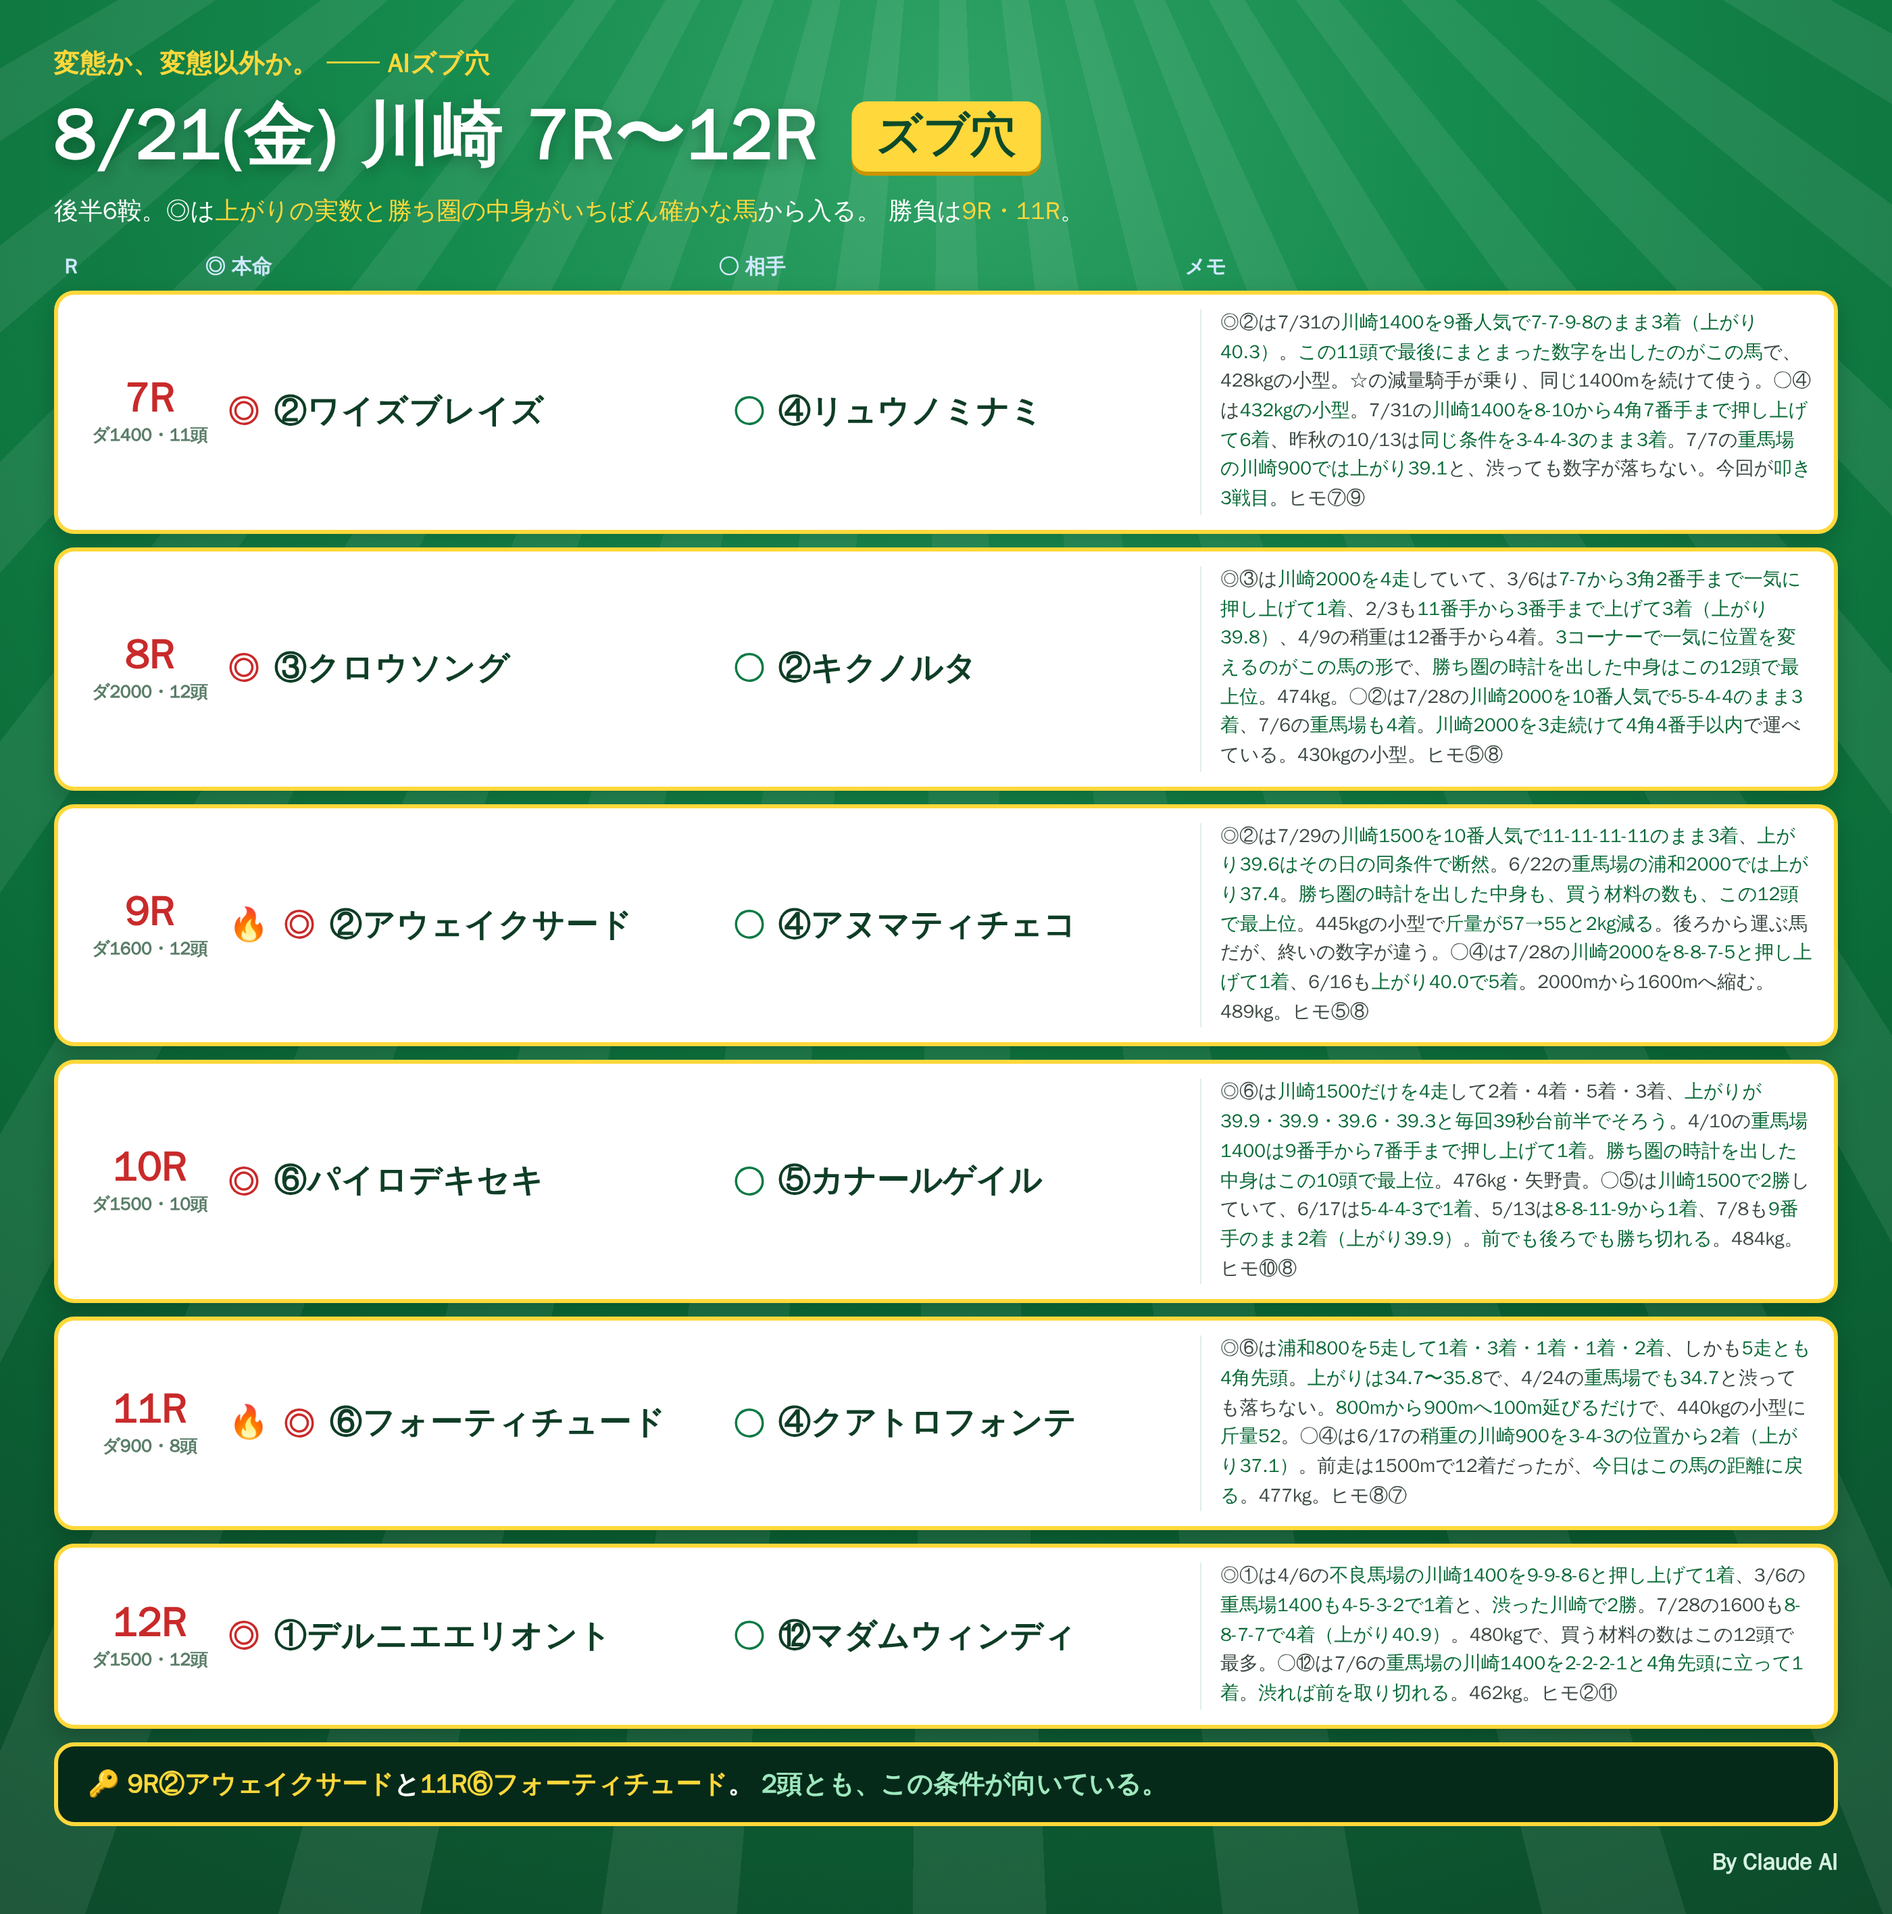
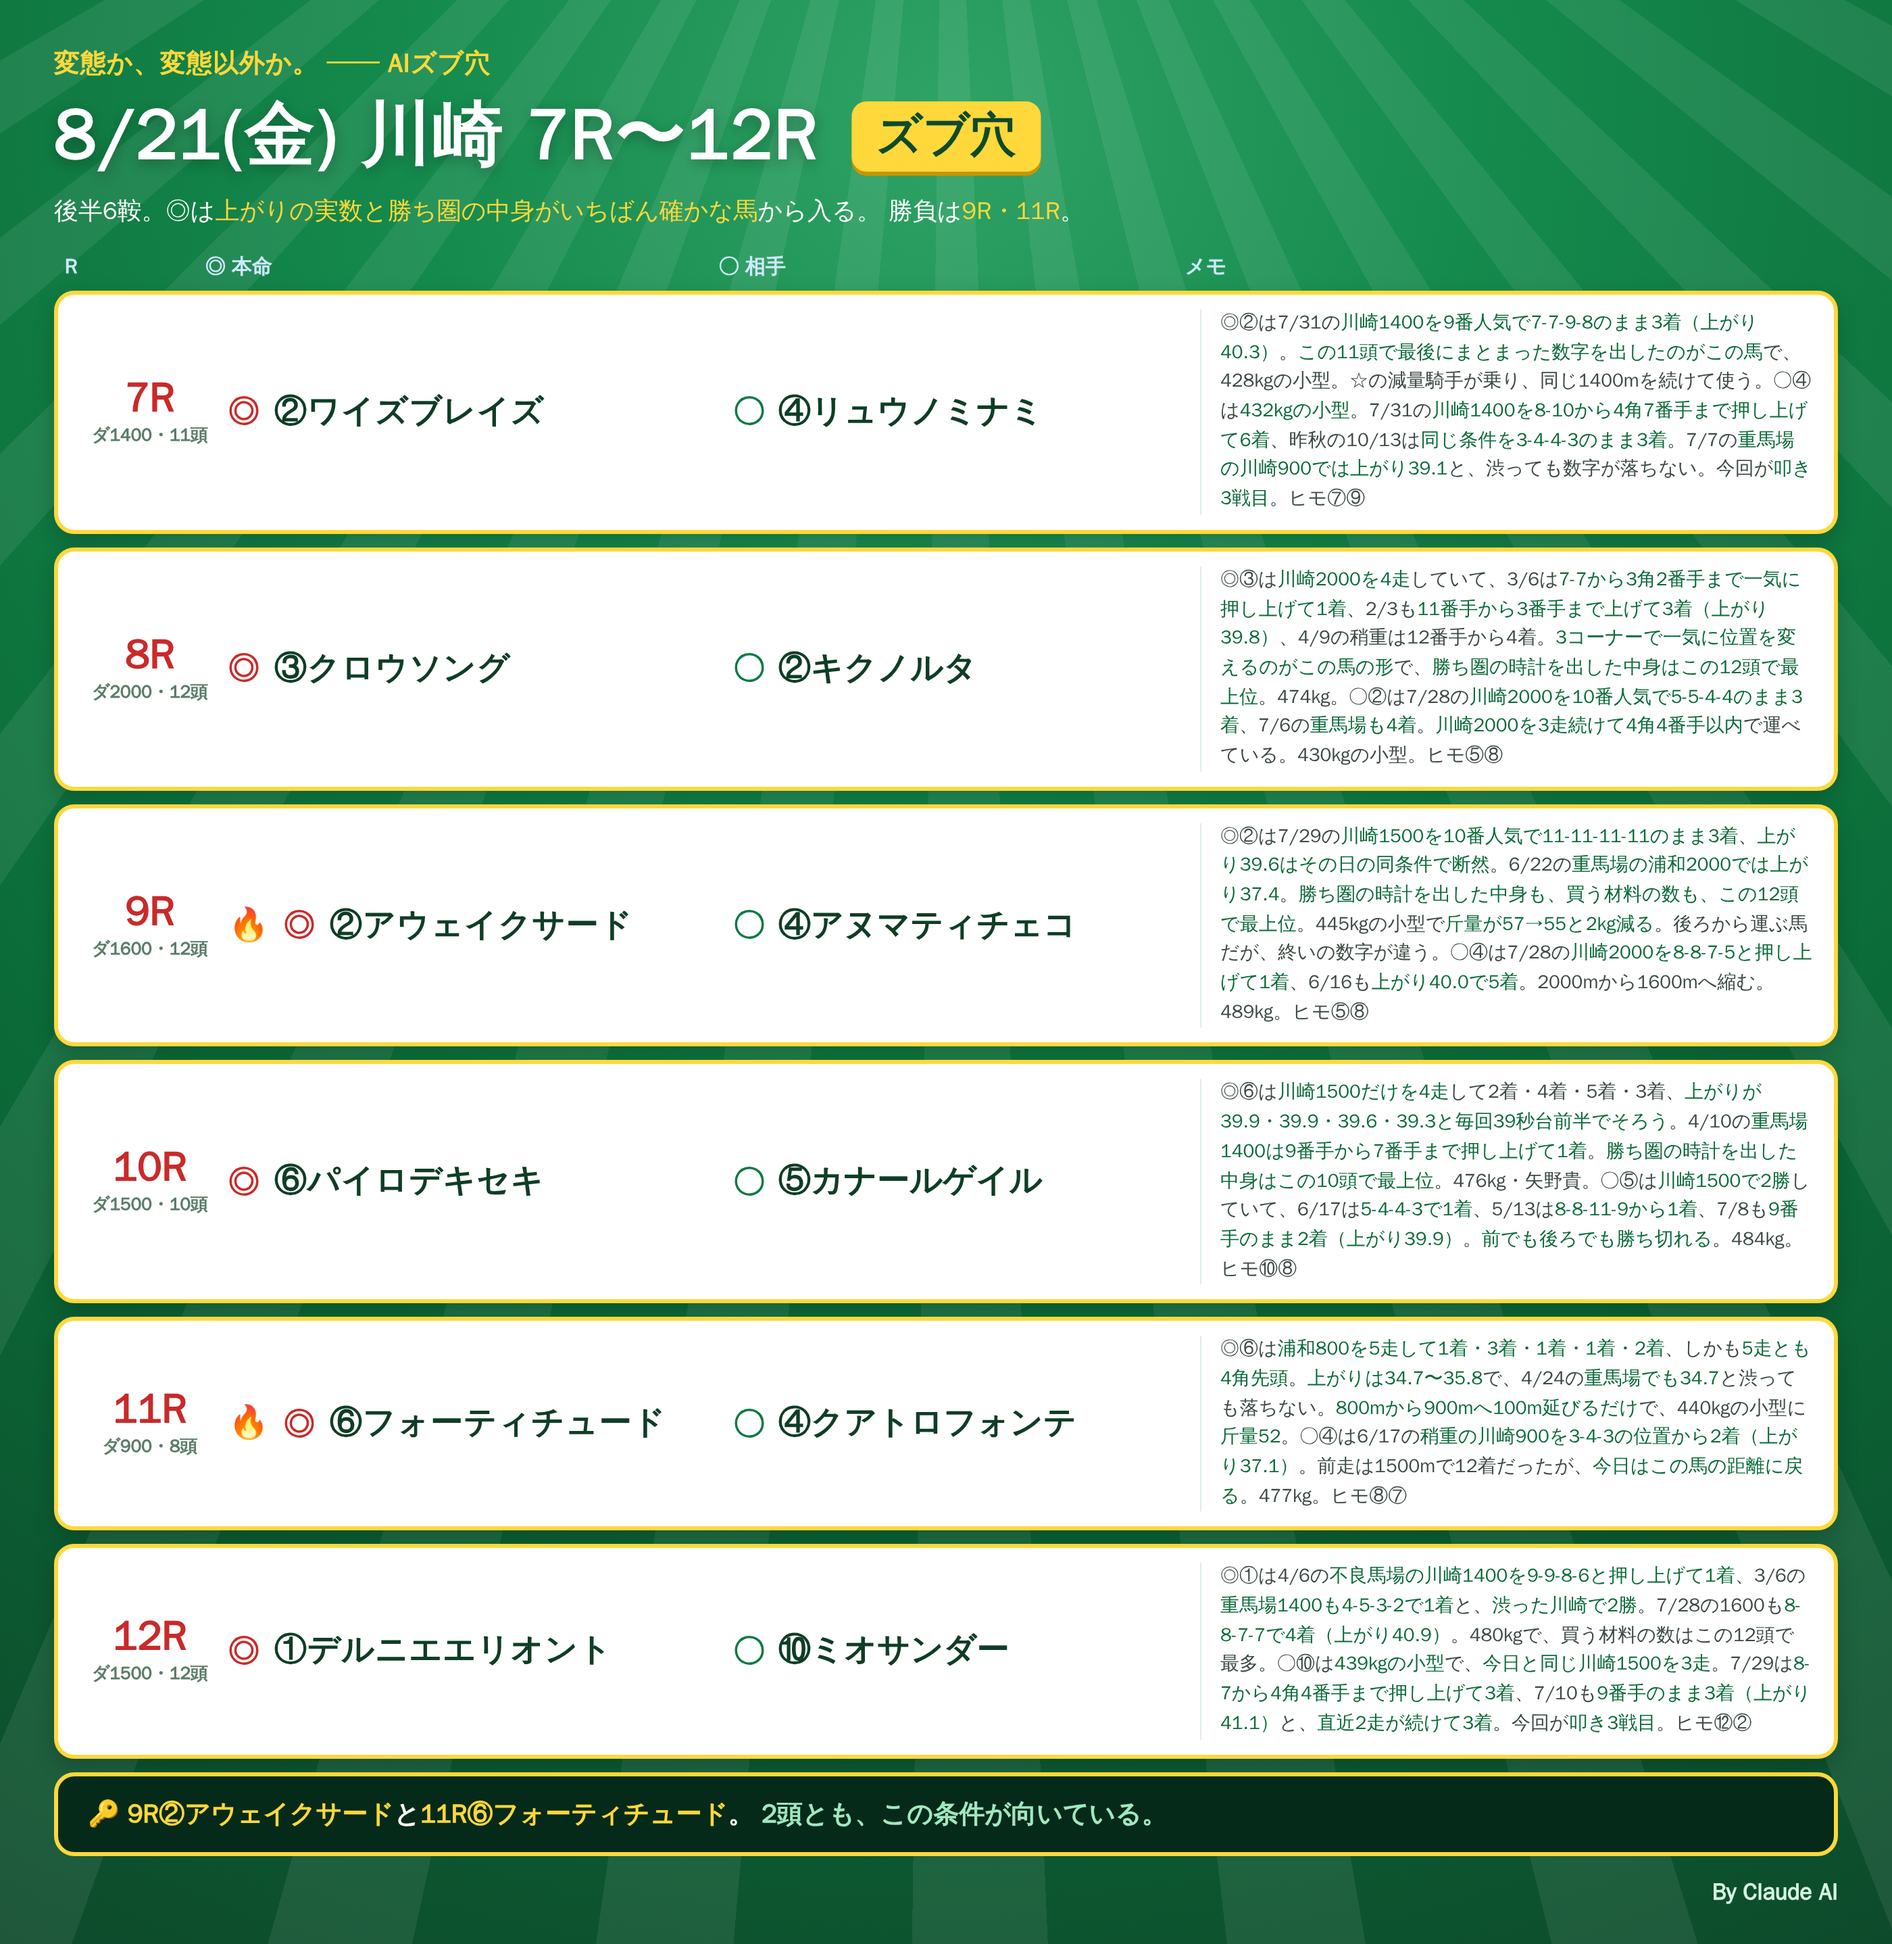
notes: 8/21 後半 12R ○⑩ミオサンダー
⑫マダムウィンディはヒモへ。

Claude-Session: https://claude.ai/code/session_01RoHscZkr96FNaxQWvUqgEw

diff --git a/notes/live/2026-08-21/kawasaki_7_12.html b/notes/live/2026-08-21/kawasaki_7_12.html
@@ -91,8 +91,8 @@
   <div class="row">
     <div class="rN"><div class="n">12R</div><div class="d">ダ1500・12頭</div></div>
     <div class="hm"><span class="mk">◎</span><span class="nm">①デルニエエリオント</span></div>
-    <div class="at"><span class="mk2">○</span><span class="nm2">⑫マダムウィンディ</span></div>
-    <div class="memo">◎①は4/6の<b>不良馬場の川崎1400を9-9-8-6と押し上げて1着</b>、3/6の<b>重馬場1400も4-5-3-2で1着</b>と、<b>渋った川崎で2勝</b>。7/28の1600も<b>8-8-7-7で4着（上がり40.9）</b>。480kgで、買う材料の数はこの12頭で最多。○⑫は7/6の<b>重馬場の川崎1400を2-2-2-1と4角先頭に立って1着</b>。<b>渋れば前を取り切れる</b>。462kg。ヒモ②⑪</div>
+    <div class="at"><span class="mk2">○</span><span class="nm2">⑩ミオサンダー</span></div>
+    <div class="memo">◎①は4/6の<b>不良馬場の川崎1400を9-9-8-6と押し上げて1着</b>、3/6の<b>重馬場1400も4-5-3-2で1着</b>と、<b>渋った川崎で2勝</b>。7/28の1600も<b>8-8-7-7で4着（上がり40.9）</b>。480kgで、買う材料の数はこの12頭で最多。○⑩は<b>439kgの小型</b>で、<b>今日と同じ川崎1500を3走</b>。7/29は<b>8-7から4角4番手まで押し上げて3着</b>、7/10も<b>9番手のまま3着（上がり41.1）</b>と、<b>直近2走が続けて3着</b>。今回が<b>叩き3戦目</b>。ヒモ⑫②</div>
   </div>
 
   <div class="foot">🔑 <span class="y">9R②アウェイクサード</span>と<span class="y">11R⑥フォーティチュード</span>。

diff --git a/notes/live/2026-08-21/README.md b/notes/live/2026-08-21/README.md
@@ -55,7 +55,7 @@
 | 9R | ダ1600・12頭 | 🔥②アウェイクサード | ④アヌマティチェコ | ⑤⑧ | ◎399=12.6・本物3・タグ7個ともカード最上位 |
 | 10R | ダ1500・10頭 | ⑥パイロデキセキ | ⑤カナールゲイル | ⑩⑧ | ◎399=9.1・本物3で10頭最上位 |
 | 11R | ダ900・8頭 | 🔥⑥フォーティチュード | ④クアトロフォンテ | ⑧⑦ | 下記参照 |
-| 12R | ダ1500・12頭 | ①デルニエエリオント | ⑫マダムウィンディ | ②⑪ | ◎399=3.5・本物2＋タグ5個で最多 |
+| 12R | ダ1500・12頭 | ①デルニエエリオント | ⑩ミオサンダー | ⑫② | ◎399=3.5・本物2＋タグ5個で最多 |
 
 勝負: **9R・11R**
 
